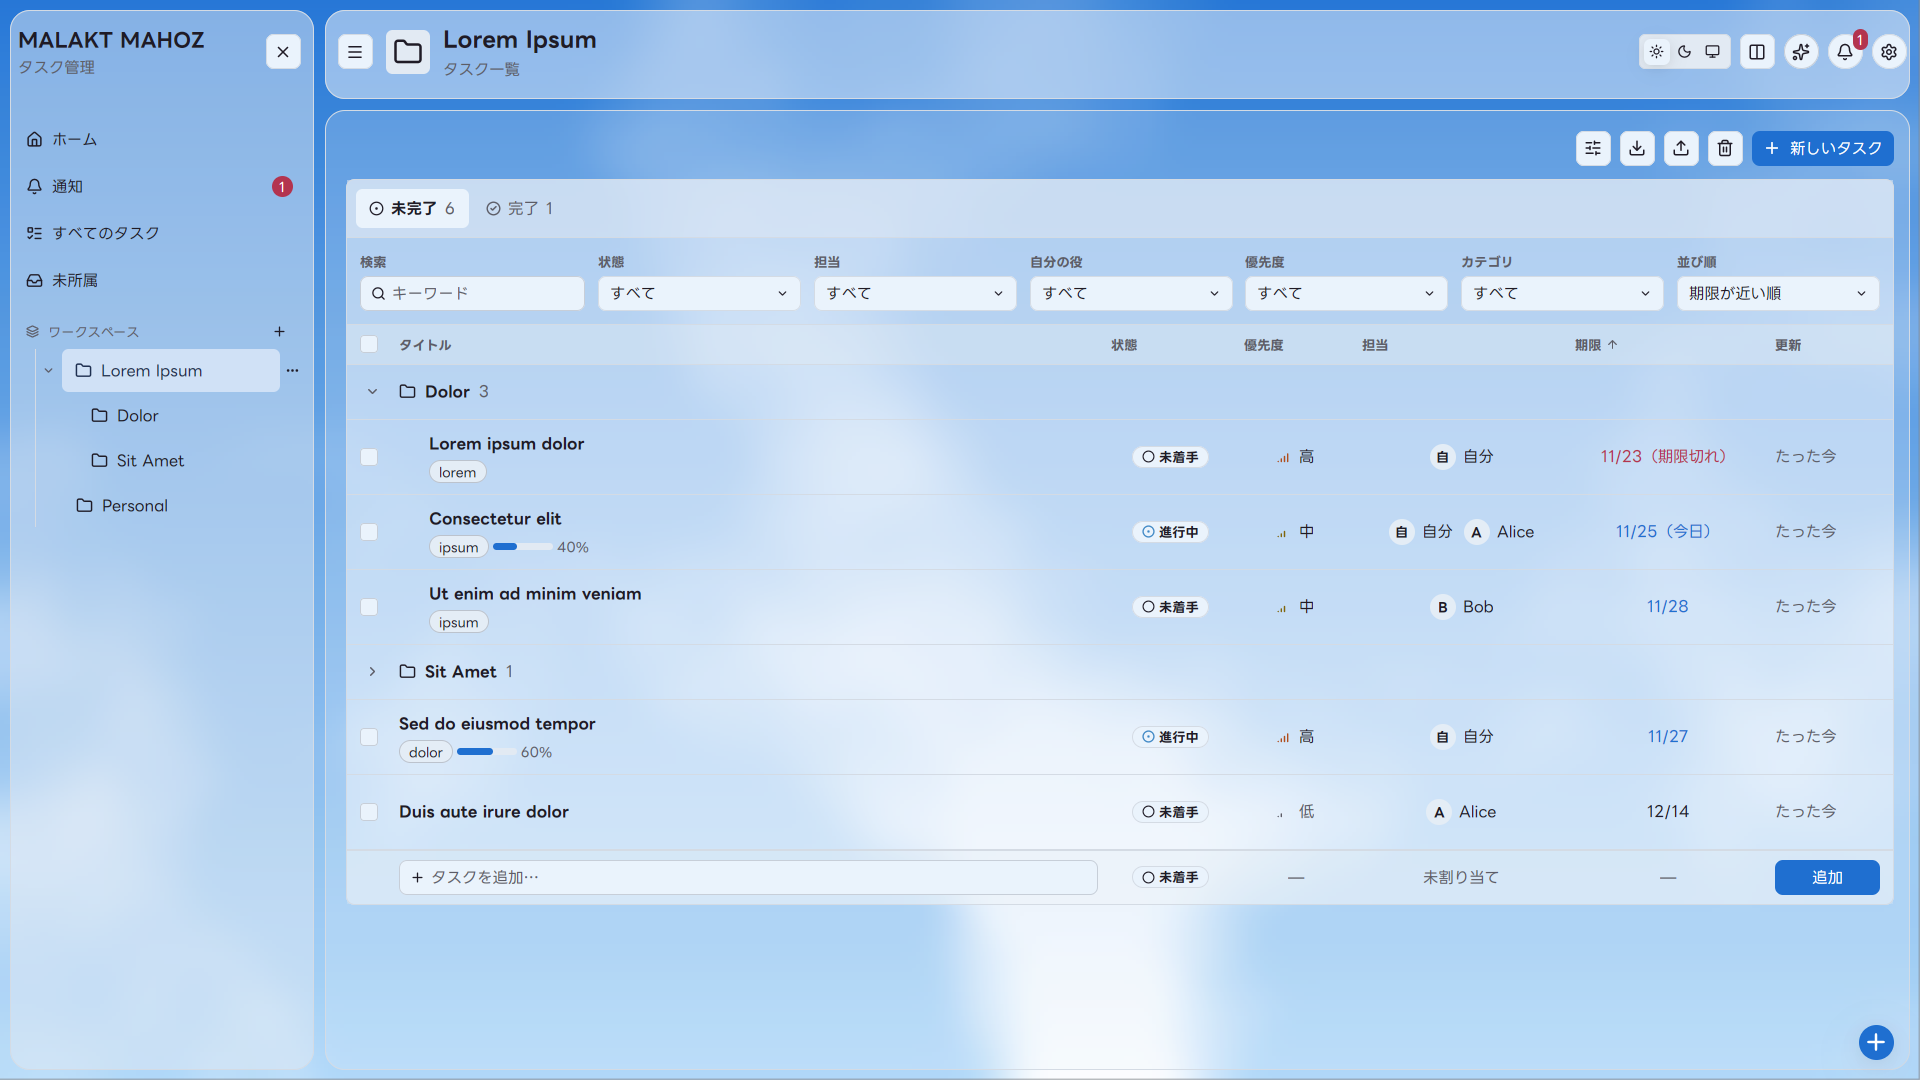
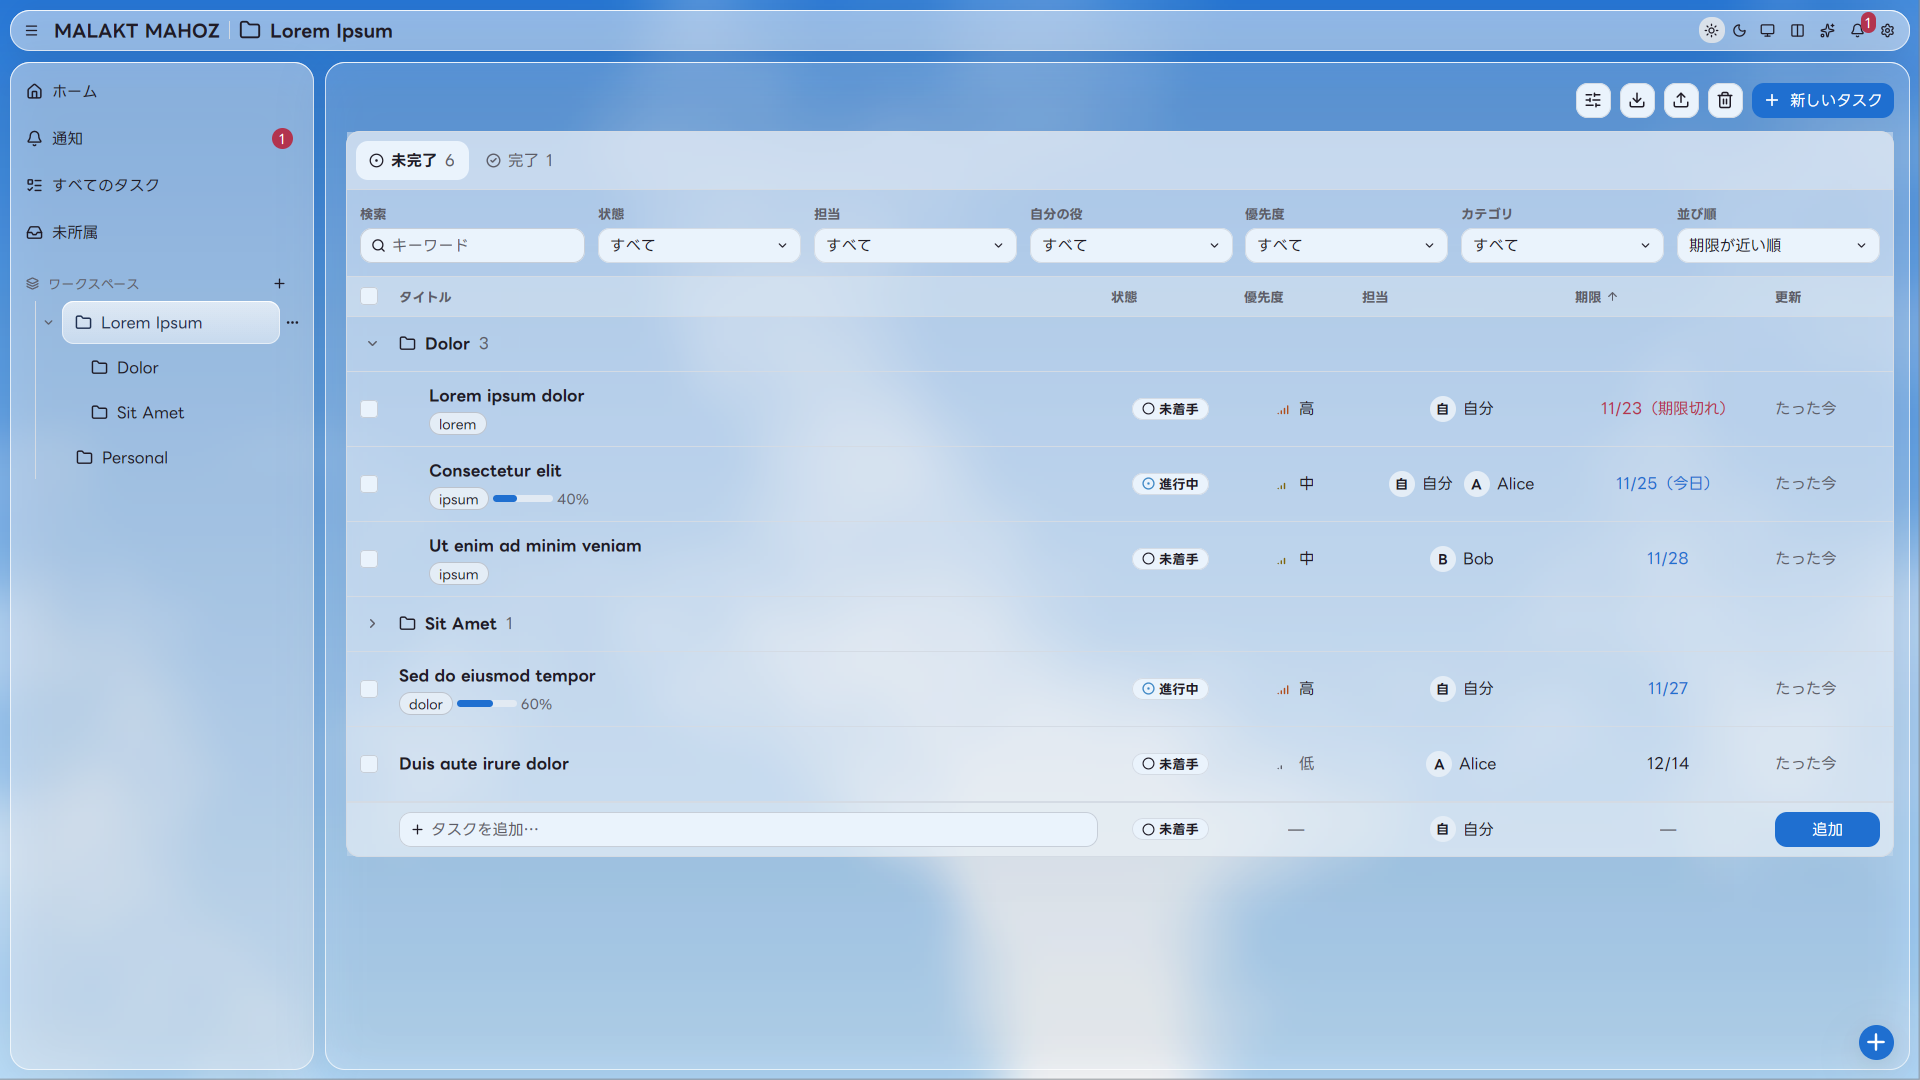
README の画面の画像を、新しいヘッダーの画面で撮り直す (#106)

diff --git a/README.md b/README.md
@@ -16,8 +16,8 @@
 | ![ペイン](docs/images/panes.png)<br><sub>ペイン</sub> | ![AI チャット](docs/images/ai.png)<br><sub>AI チャット</sub> |
 | ![ターミナル](docs/images/terminal.png)<br><sub>ターミナル</sub> | ![すべてのタスク](docs/images/all.png)<br><sub>すべてのタスク</sub> |
 
-![テーマ](docs/images/themes.png)
-<sub>テーマの一覧</sub>
+![カスタマイズ](docs/images/themes.png)
+<sub>カスタマイズ</sub>
 
 ## 機能
 
